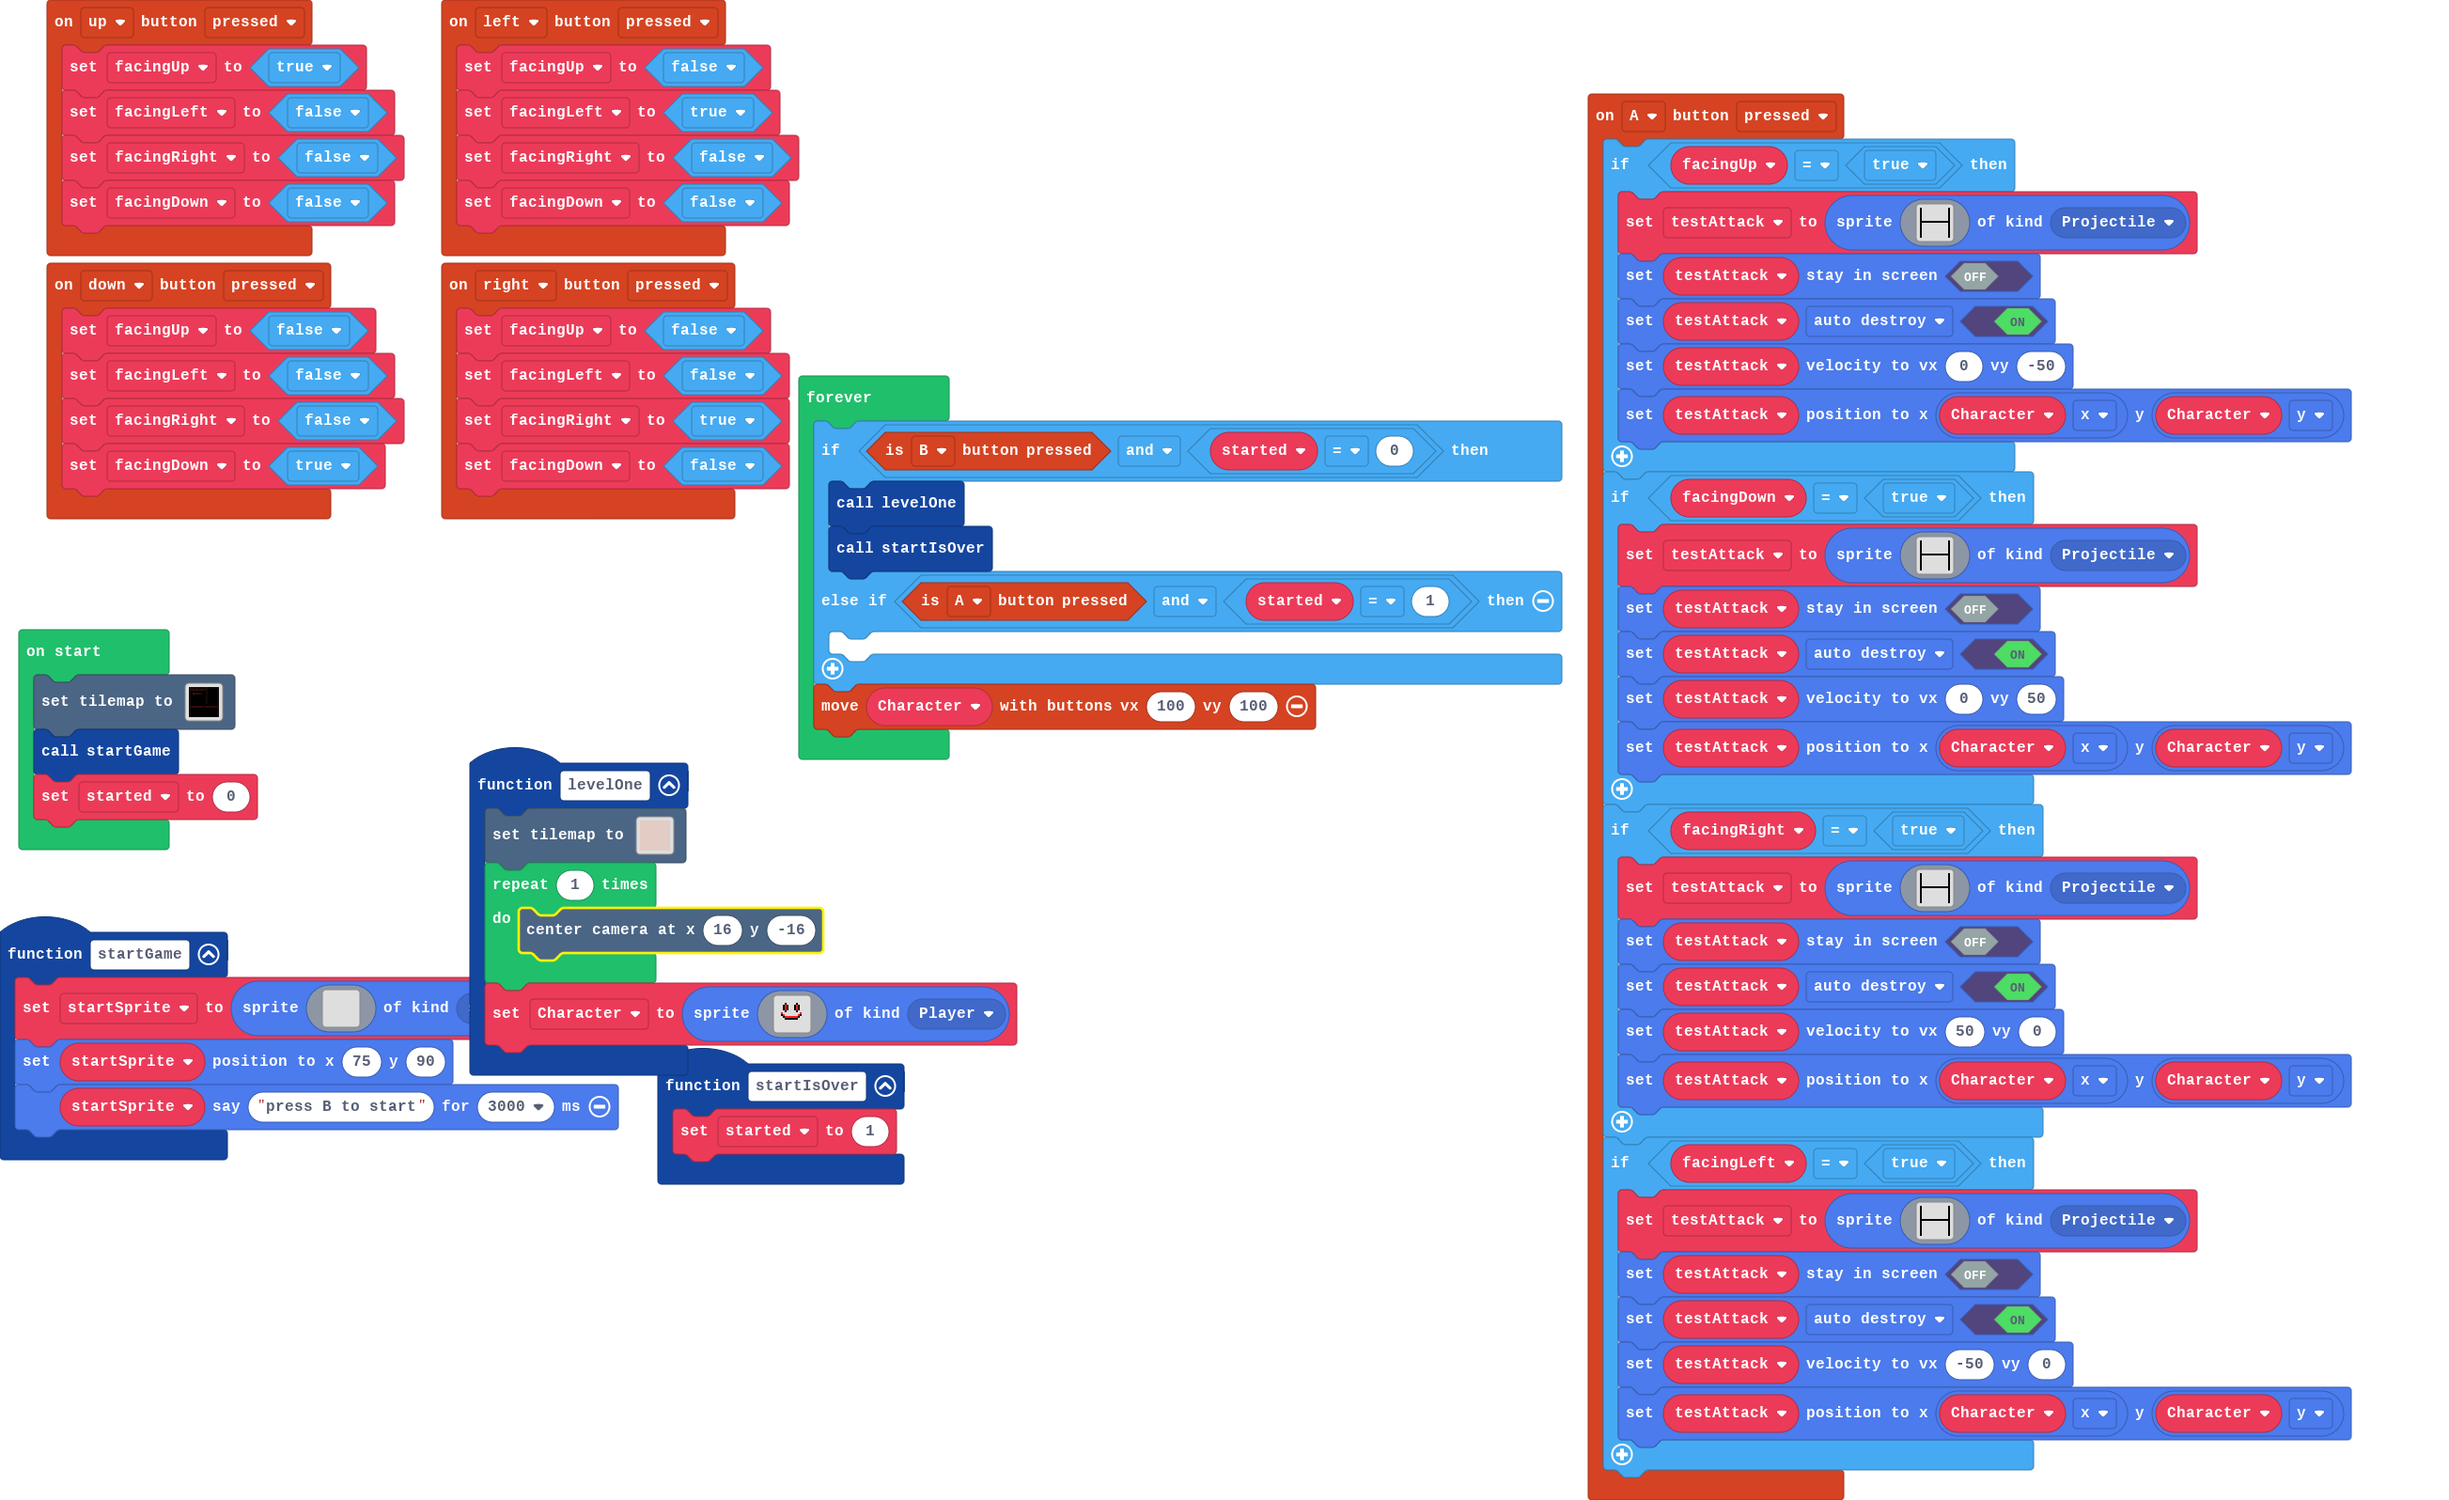
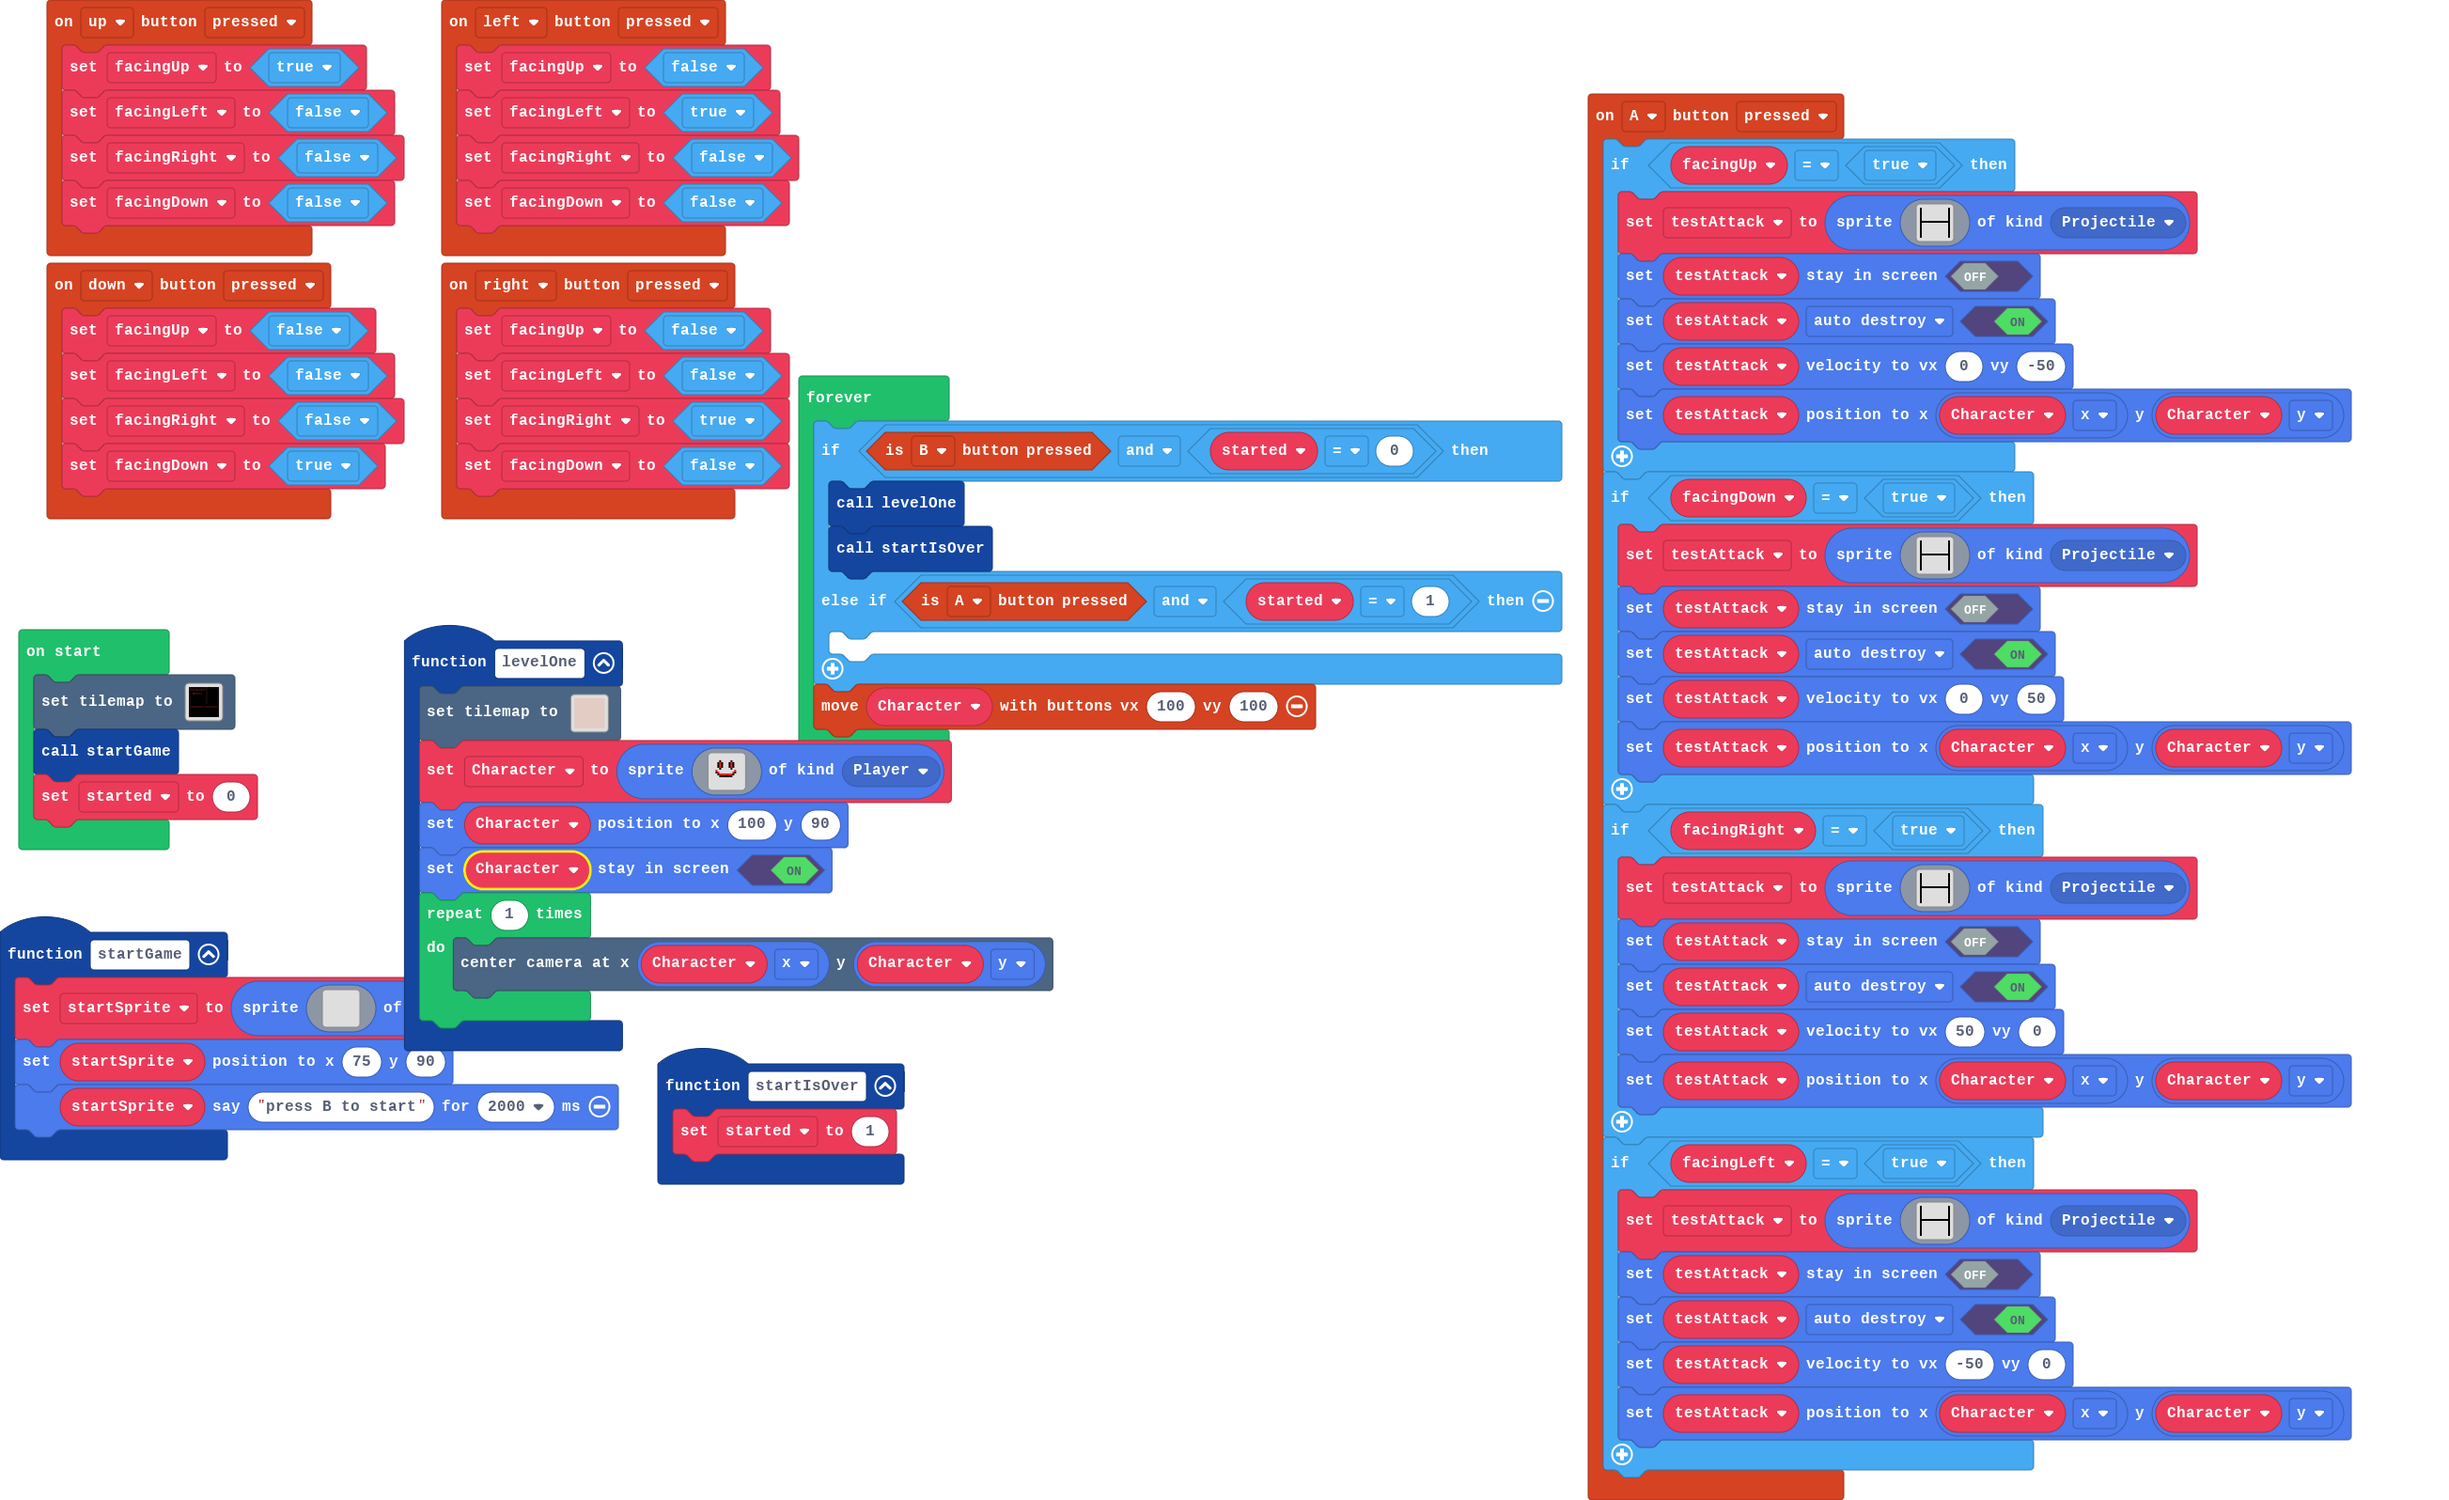
Update main.blocks, main.ts

Changed region(s): [[0.1554, 0.3991, 0.4351, 0.7368]]

diff --git a/main.ts b/main.ts
@@ -126,7 +126,7 @@ function startGame () {
         . . . . . . . . . . . . . . . . 
         `, SpriteKind.speech)
     startSprite.setPosition(75, 90)
-    startSprite.say("press B to start", 3000)
+    startSprite.say("press B to start", 2000)
 }
 controller.left.onEvent(ControllerButtonEvent.Pressed, function () {
     facingUp = false
@@ -136,9 +136,6 @@ controller.left.onEvent(ControllerButtonEvent.Pressed, function () {
 })
 function levelOne () {
     tiles.setTilemap(tilemap`level2`)
-    for (let index = 0; index < 1; index++) {
-        scene.centerCameraAt(16, -16)
-    }
     Character = sprites.create(img`
         . . . . . . . . . . . . . . . . 
         . . . . . . . . . . . . . . . . 
@@ -157,6 +154,11 @@ function levelOne () {
         . . . . . . . . . . . . . . . . 
         . . . . . . . . . . . . . . . . 
         `, SpriteKind.Player)
+    Character.setPosition(100, 90)
+    Character.setStayInScreen(true)
+    for (let index = 0; index < 1; index++) {
+        scene.centerCameraAt(Character.x, Character.y)
+    }
 }
 function startIsOver () {
     started = 1
